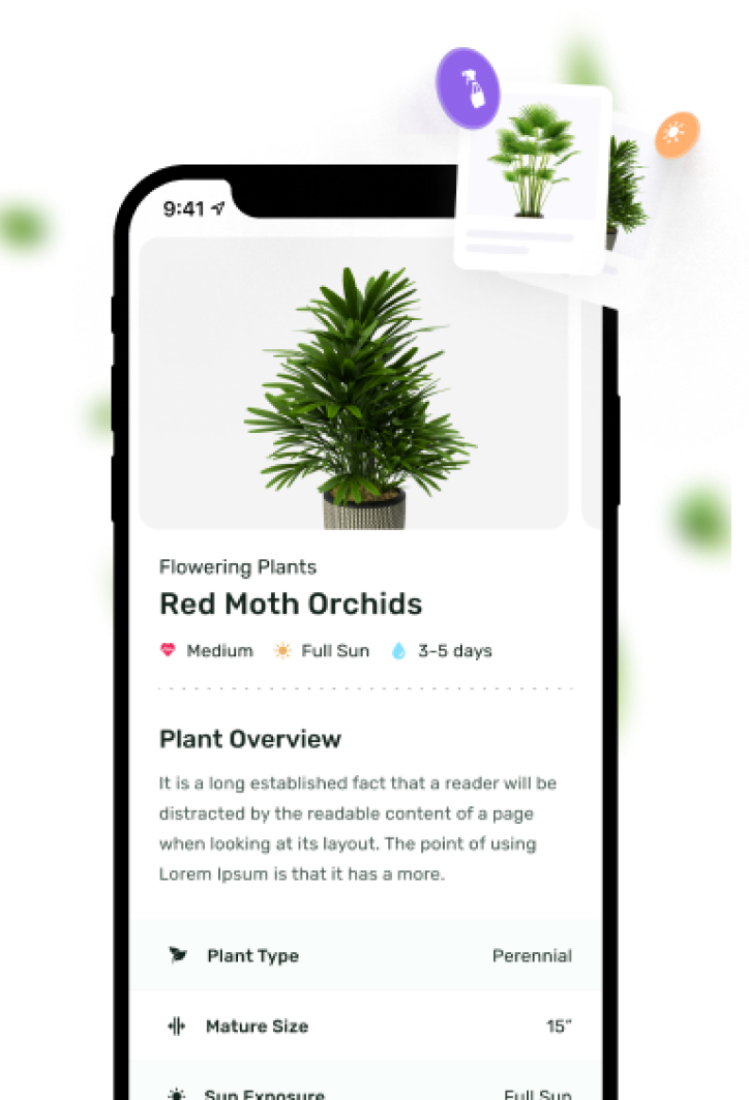
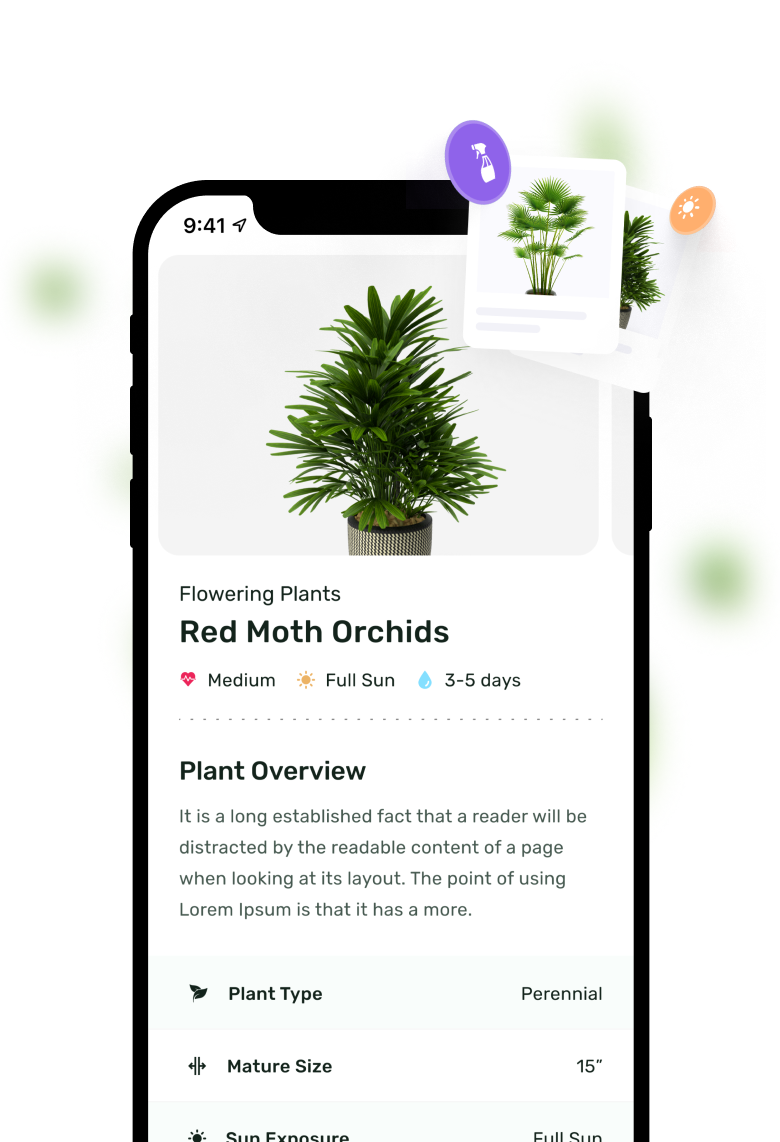
onboarding image fixes

diff --git a/src/router/RootNavigation.tsx b/src/router/RootNavigation.tsx
@@ -5,44 +5,61 @@ import Welcome from '../screens/Welcome/Welcome';
 import { TabStack } from './TabNavigator';
 import WebView from '../screens/WebView/WebView';
 import { colors } from '../theme/colors';
-import { storage } from '../providers/storage';
+import { STORAGE_KEYS, storage } from '../providers/storage';
 
 const Stack = createNativeStackNavigator();
 
 const RootNavigation = () => {
+  const userSeenOnBoarding = storage.getBoolean(
+    STORAGE_KEYS.USER_SEEN_ONBOARDING
+  );
+
   return (
     <NavigationContainer>
       <Stack.Navigator>
-        <Stack.Screen
-          options={{
-            headerShown: false
-          }}
-          name='Welcome'
-          component={Welcome}
-        />
-        <Stack.Screen
-          options={{
-            headerShown: false
-          }}
-          name='OnBoardingStack'
-          component={OnBoardingStack}
-        />
-        <Stack.Screen
-          options={{
-            headerShown: false,
-            gestureEnabled: false
-          }}
-          name='TabStack'
-          component={TabStack}
-        />
-        <Stack.Screen
-          options={({ route }) => ({
-            headerTitle: route.params?.title,
-            headerTintColor: colors.main
-          })}
-          name='WebView'
-          component={WebView}
-        />
+        {false ? (
+          <Stack.Screen
+            options={{
+              headerShown: false,
+              gestureEnabled: false
+            }}
+            name='TabStack'
+            component={TabStack}
+          />
+        ) : (
+          <>
+            <Stack.Screen
+              options={{
+                headerShown: false
+              }}
+              name='Welcome'
+              component={Welcome}
+            />
+            <Stack.Screen
+              options={{
+                headerShown: false
+              }}
+              name='OnBoardingStack'
+              component={OnBoardingStack}
+            />
+            <Stack.Screen
+              options={{
+                headerShown: false,
+                gestureEnabled: false
+              }}
+              name='TabStack'
+              component={TabStack}
+            />
+            <Stack.Screen
+              options={({ route }) => ({
+                headerTitle: route.params?.title,
+                headerTintColor: colors.main
+              })}
+              name='WebView'
+              component={WebView}
+            />
+          </>
+        )}
       </Stack.Navigator>
     </NavigationContainer>
   );

diff --git a/src/screens/OnBoarding/OnBoarding.tsx b/src/screens/OnBoarding/OnBoarding.tsx
@@ -1,5 +1,5 @@
 import { useCallback, useEffect, useRef, useState } from 'react';
-import { StyleSheet, Text, View } from 'react-native';
+import { Image, ImageBackground, StyleSheet, Text, View } from 'react-native';
 import FastImage from 'react-native-fast-image';
 import { FlatList } from 'react-native-gesture-handler';
 import { useNavigation } from '@react-navigation/native';
@@ -10,6 +10,7 @@ import { Metrics } from '../../theme/metrics';
 import { onBoardingData } from '../../utils/uiData';
 import { styles } from './OnBoarding.style';
 import { OnBoardingData } from '../../utils/types';
+import LinearGradient from 'react-native-linear-gradient';
 
 const OnBoarding = () => {
   const flatListRef = useRef<FlatList>(null);
@@ -31,7 +32,7 @@ const OnBoarding = () => {
             {item.titleEnd}
           </Text>
         </View>
-        <FastImage source={item.image} style={styles.image} />
+        <Image source={item.image} style={styles.image} />
       </View>
     );
   };
@@ -56,7 +57,6 @@ const OnBoarding = () => {
         decelerationRate='fast'
         renderItem={renderItem}
       />
-
       <PrimaryButton
         title='Continue'
         onPress={() => {

diff --git a/src/screens/OnBoarding/OnBoarding.style.ts b/src/screens/OnBoarding/OnBoarding.style.ts
@@ -6,31 +6,34 @@ const ORIGINAL_IMAGE_HEIGHT = 1100;
 const ORIGINAL_IMAGE_WIDTH = 750;
 const ASPECT_RATIO = ORIGINAL_IMAGE_WIDTH / ORIGINAL_IMAGE_HEIGHT;
 const IMAGE_HEIGHT = Metrics.SCREEN_HEIGHT / 1.5;
+const IMAGE_WIDTH = IMAGE_HEIGHT * ASPECT_RATIO;
 
 export const styles = StyleSheet.create({
   flatList: {
     flexGrow: 0
   },
   item: {
-    width: Metrics.SCREEN_WIDTH
+    width: Metrics.SCREEN_WIDTH,
+    flex: 1
   },
   headerWrapper: {
     paddingHorizontal: Metrics.BASE_PADDING_HORIZONTAL,
     marginTop: 24
   },
   text: {
-    fontFamily: 'Rubik-SemiBold',
+    fontWeight: '600',
     color: colors.primaryText,
     fontSize: 28
   },
   textBold: {
-    fontFamily: 'Rubik-Bold'
+    fontWeight: '900'
   },
   image: {
-    justifyContent: 'flex-end',
     height: IMAGE_HEIGHT,
-    aspectRatio: ASPECT_RATIO,
-    alignSelf: 'center'
+    width: IMAGE_WIDTH,
+    justifyContent: 'flex-end',
+    alignSelf: 'center',
+    marginTop: 24
   },
   dots: {
     flexDirection: 'row',

diff --git a/src/screens/Welcome/Welcome.styles.ts b/src/screens/Welcome/Welcome.styles.ts
@@ -2,8 +2,8 @@ import { StyleSheet } from 'react-native';
 import { Metrics } from '../../theme/metrics';
 import { colors } from '../../theme/colors';
 
-const ORIGINAL_IMAGE_HEIGHT = 500;
-const ORIGINAL_IMAGE_WIDTH = 375;
+const ORIGINAL_IMAGE_HEIGHT = 1095;
+const ORIGINAL_IMAGE_WIDTH = 750;
 const ASPECT_RATIO = ORIGINAL_IMAGE_WIDTH / ORIGINAL_IMAGE_HEIGHT;
 const HEIGHT_REDUCTION_RATIO = 1.6;
 
@@ -28,14 +28,15 @@ export const styles = StyleSheet.create({
     fontSize: 28
   },
   textBold: {
-    fontFamily: 'Rubik-Bold'
+    fontWeight: '600'
   },
   description: {
     fontFamily: 'Rubik-Regular',
     color: '#13231BB3',
     fontSize: 16,
     marginTop: 12,
-    lineHeight: 22
+    lineHeight: 22,
+    width: '90%'
   },
   bottomText: {
     fontFamily: 'Rubik-Regular',

diff --git a/src/utils/uiData.ts b/src/utils/uiData.ts
@@ -11,16 +11,13 @@ export const onBoardingData = [
     titleStart: 'Take a photo to ',
     titleBold: 'identify',
     titleEnd: ' the plant!',
-    image: Onboarding1,
-    onPress: () => {}
+    image: Onboarding1
   },
   {
     id: 1,
     titleStart: 'Get plant ',
     titleBold: 'care guides',
-    titleEnd: ' and tips!',
-    image: Onboarding2,
-    onPress: () => {}
+    image: Onboarding2
   },
   {
     id: 2

diff --git a/src/components/PrimaryButton.tsx b/src/components/PrimaryButton.tsx
@@ -39,10 +39,10 @@ const styles = StyleSheet.create({
   button: {
     width: SCREEN_WIDTH - BASE_PADDING_HORIZONTAL * 2,
     alignSelf: 'center',
-    height: 60,
+    height: 55,
     alignItems: 'center',
     justifyContent: 'center',
-    borderRadius: 15
+    borderRadius: 12
   },
   buttonText: {
     fontFamily: 'Rubik-Bold',

diff --git a/src/screens/Welcome/Welcome.tsx b/src/screens/Welcome/Welcome.tsx
@@ -8,6 +8,7 @@ import { styles } from './Welcome.styles';
 
 const Welcome = () => {
   const navigation = useNavigation();
+
   return (
     <OnBoardingContainer>
       <View style={styles.headerWrapper}>

diff --git a/src/utils/types.d.ts b/src/utils/types.d.ts
@@ -4,7 +4,6 @@ export interface OnBoardingData {
   titleBold?: string;
   titleEnd?: string;
   image?: ImageSourcePropType;
-  onPress?: () => void;
 }
 
 export interface Feature {
